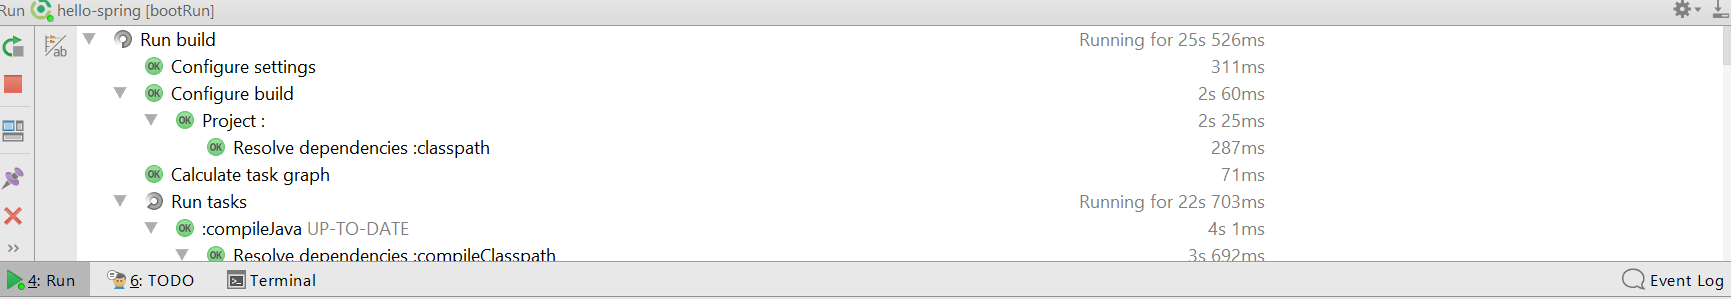
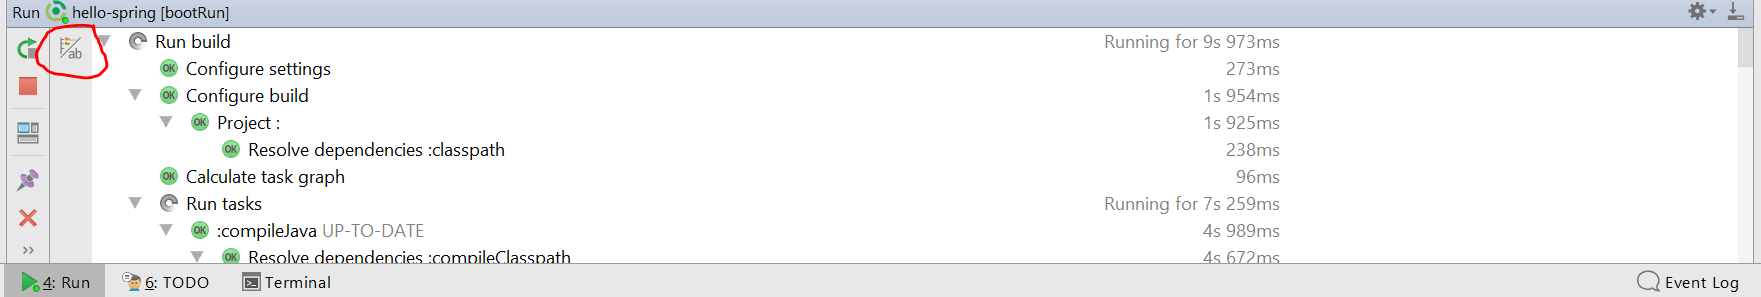
Amend note about gradle pane, can toggle it

diff --git a/videos/intro-to-spring-boot-controllers/README.md b/videos/intro-to-spring-boot-controllers/README.md
@@ -44,8 +44,10 @@ This update usually takes about 20 minutes but can last up to an hour.
 <aside class="aside-note" markdown="1">
 If you don't see the Gradle side bar, click the pane icon in the bottom left and select *Gradle*.
 
-Also note that Windows users may not see the same output in the Gradle pane as is shown in the video. You may see something that looks more like this: 
+Also note that you may not see the same output in the Gradle pane as is shown in the video. You may see something that looks more like this: 
 ![windows bootRun](images/windowsBootRun.png)
+
+If you do, click the circled icon to toggle the view so that it matches the one in the video.
 </aside>
 - You can then visit the corresponding web page at `localhost:8080` (Right now, you'll see an error page, but we'll fix that below.) Now go ahead and stop the application.
 
